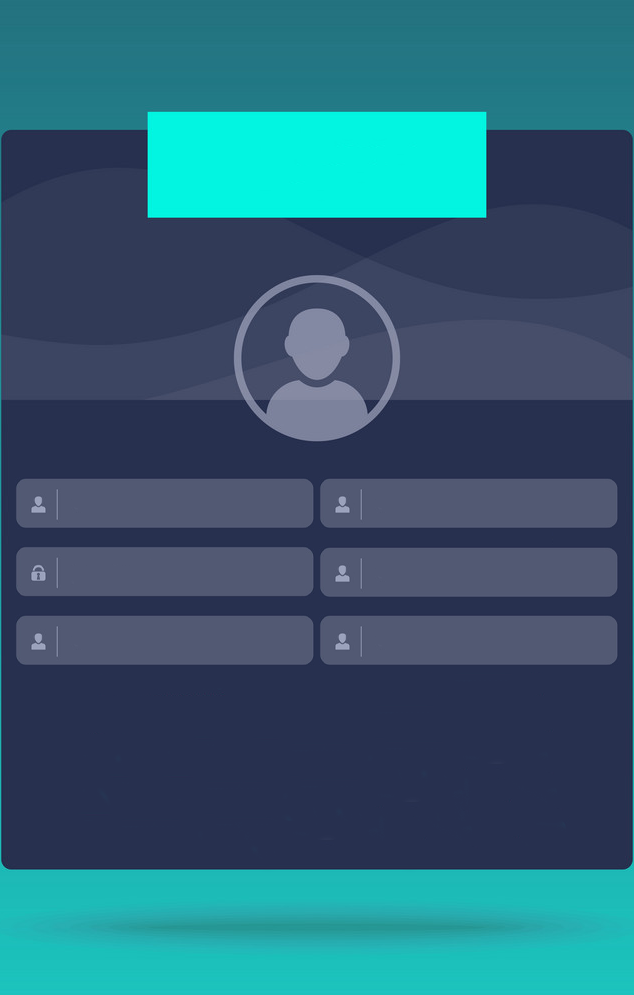
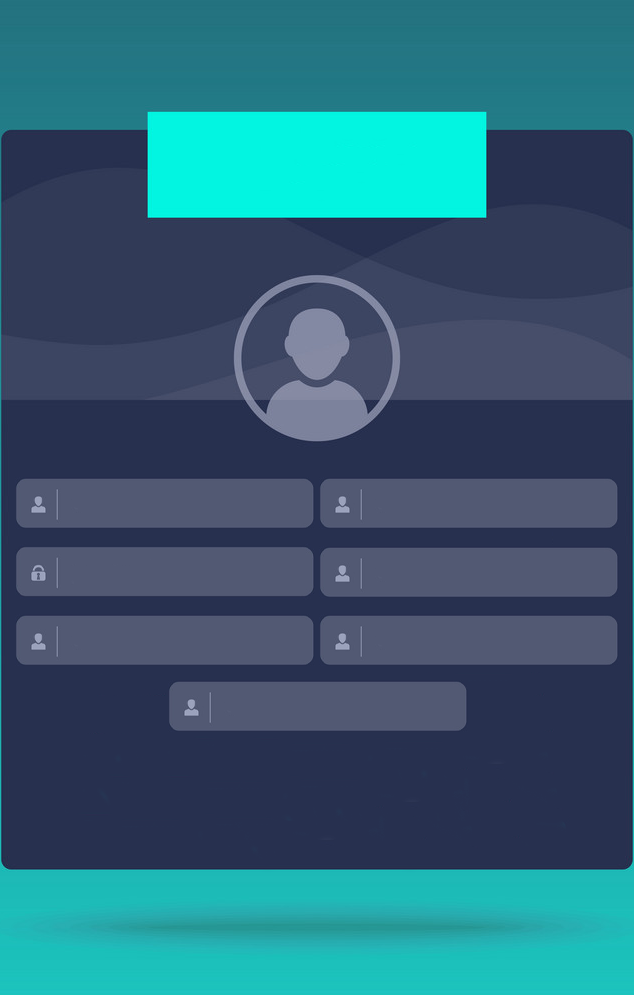
phoneNumber added!

Changed region(s): [[0.2697, 0.6854, 0.7492, 0.7477]]

diff --git a/src/main/java/view/graphic/fxml/mainMenu/FxmlMainMenu.java b/src/main/java/view/graphic/fxml/mainMenu/FxmlMainMenu.java
@@ -7,6 +7,8 @@ import javafx.scene.paint.Color;
 import javafx.stage.Stage;
 import view.graphic.MenuNames;
 import view.graphic.ProgramApplication;
+import view.graphic.alert.AlertController;
+import view.graphic.alert.AlertType;
 
 import javax.swing.text.html.ImageView;
 
@@ -30,8 +32,9 @@ public class FxmlMainMenu {
         ProgramApplication.setMenu(MenuNames.ALLPRODUCTSMENU);
     }
 
-    public void handleSales() {
-        ProgramApplication.setMenu(MenuNames.SALEMENU);
+    public void handleSales() throws Exception {
+        new AlertController().create(window, AlertType.ERROR);
+        //Thread.currentThread().wait();
     }
 
     public void handleExit() {

diff --git a/src/main/java/view/graphic/fxml/registerAndLoginMenu/FxmlRegisterAndLoginMenu.java b/src/main/java/view/graphic/fxml/registerAndLoginMenu/FxmlRegisterAndLoginMenu.java
@@ -24,6 +24,7 @@ public class FxmlRegisterAndLoginMenu {
     public TextField newLastName;
     public TextField newCredit;
     public TextField newCompanyInfo;
+    public TextField newPhoneNumber;
 
     public void enterMouse(MouseEvent event) {
         ((Button)event.getSource()).setStyle("-fx-background-color: #14b5a8; -fx-background-radius: 10");
@@ -91,7 +92,7 @@ public class FxmlRegisterAndLoginMenu {
     }
     
     public void handleSignUpSeller() {
-        
+
     }
 
 }

diff --git a/src/main/java/view/graphic/alert/AlertController.java b/src/main/java/view/graphic/alert/AlertController.java
@@ -1,0 +1,11 @@
+package view.graphic.alert;
+
+import javafx.stage.Stage;
+
+public class AlertController {
+
+    public void create(Stage mainStage, AlertType alertType) throws Exception {
+        Stage stage = new Stage();
+        stage.show();
+    }
+}

diff --git a/src/main/java/view/graphic/fxml/registerAndLoginMenu/ManagerLoginController.java b/src/main/java/view/graphic/fxml/registerAndLoginMenu/ManagerLoginController.java
@@ -13,6 +13,7 @@ public class ManagerLoginController {
     public TextField newLastName;
     public TextField newEmail;
     public TextField newCredit;
+    public TextField newPhoneNumber;
 
     public void handleSignIn() {
         //Controller To DO

diff --git a/src/main/java/view/graphic/alert/AlertType.java b/src/main/java/view/graphic/alert/AlertType.java
@@ -1,0 +1,7 @@
+package view.graphic.alert;
+
+public enum AlertType {
+    CONFIRMATION,
+    ERROR,
+    INFO
+}
